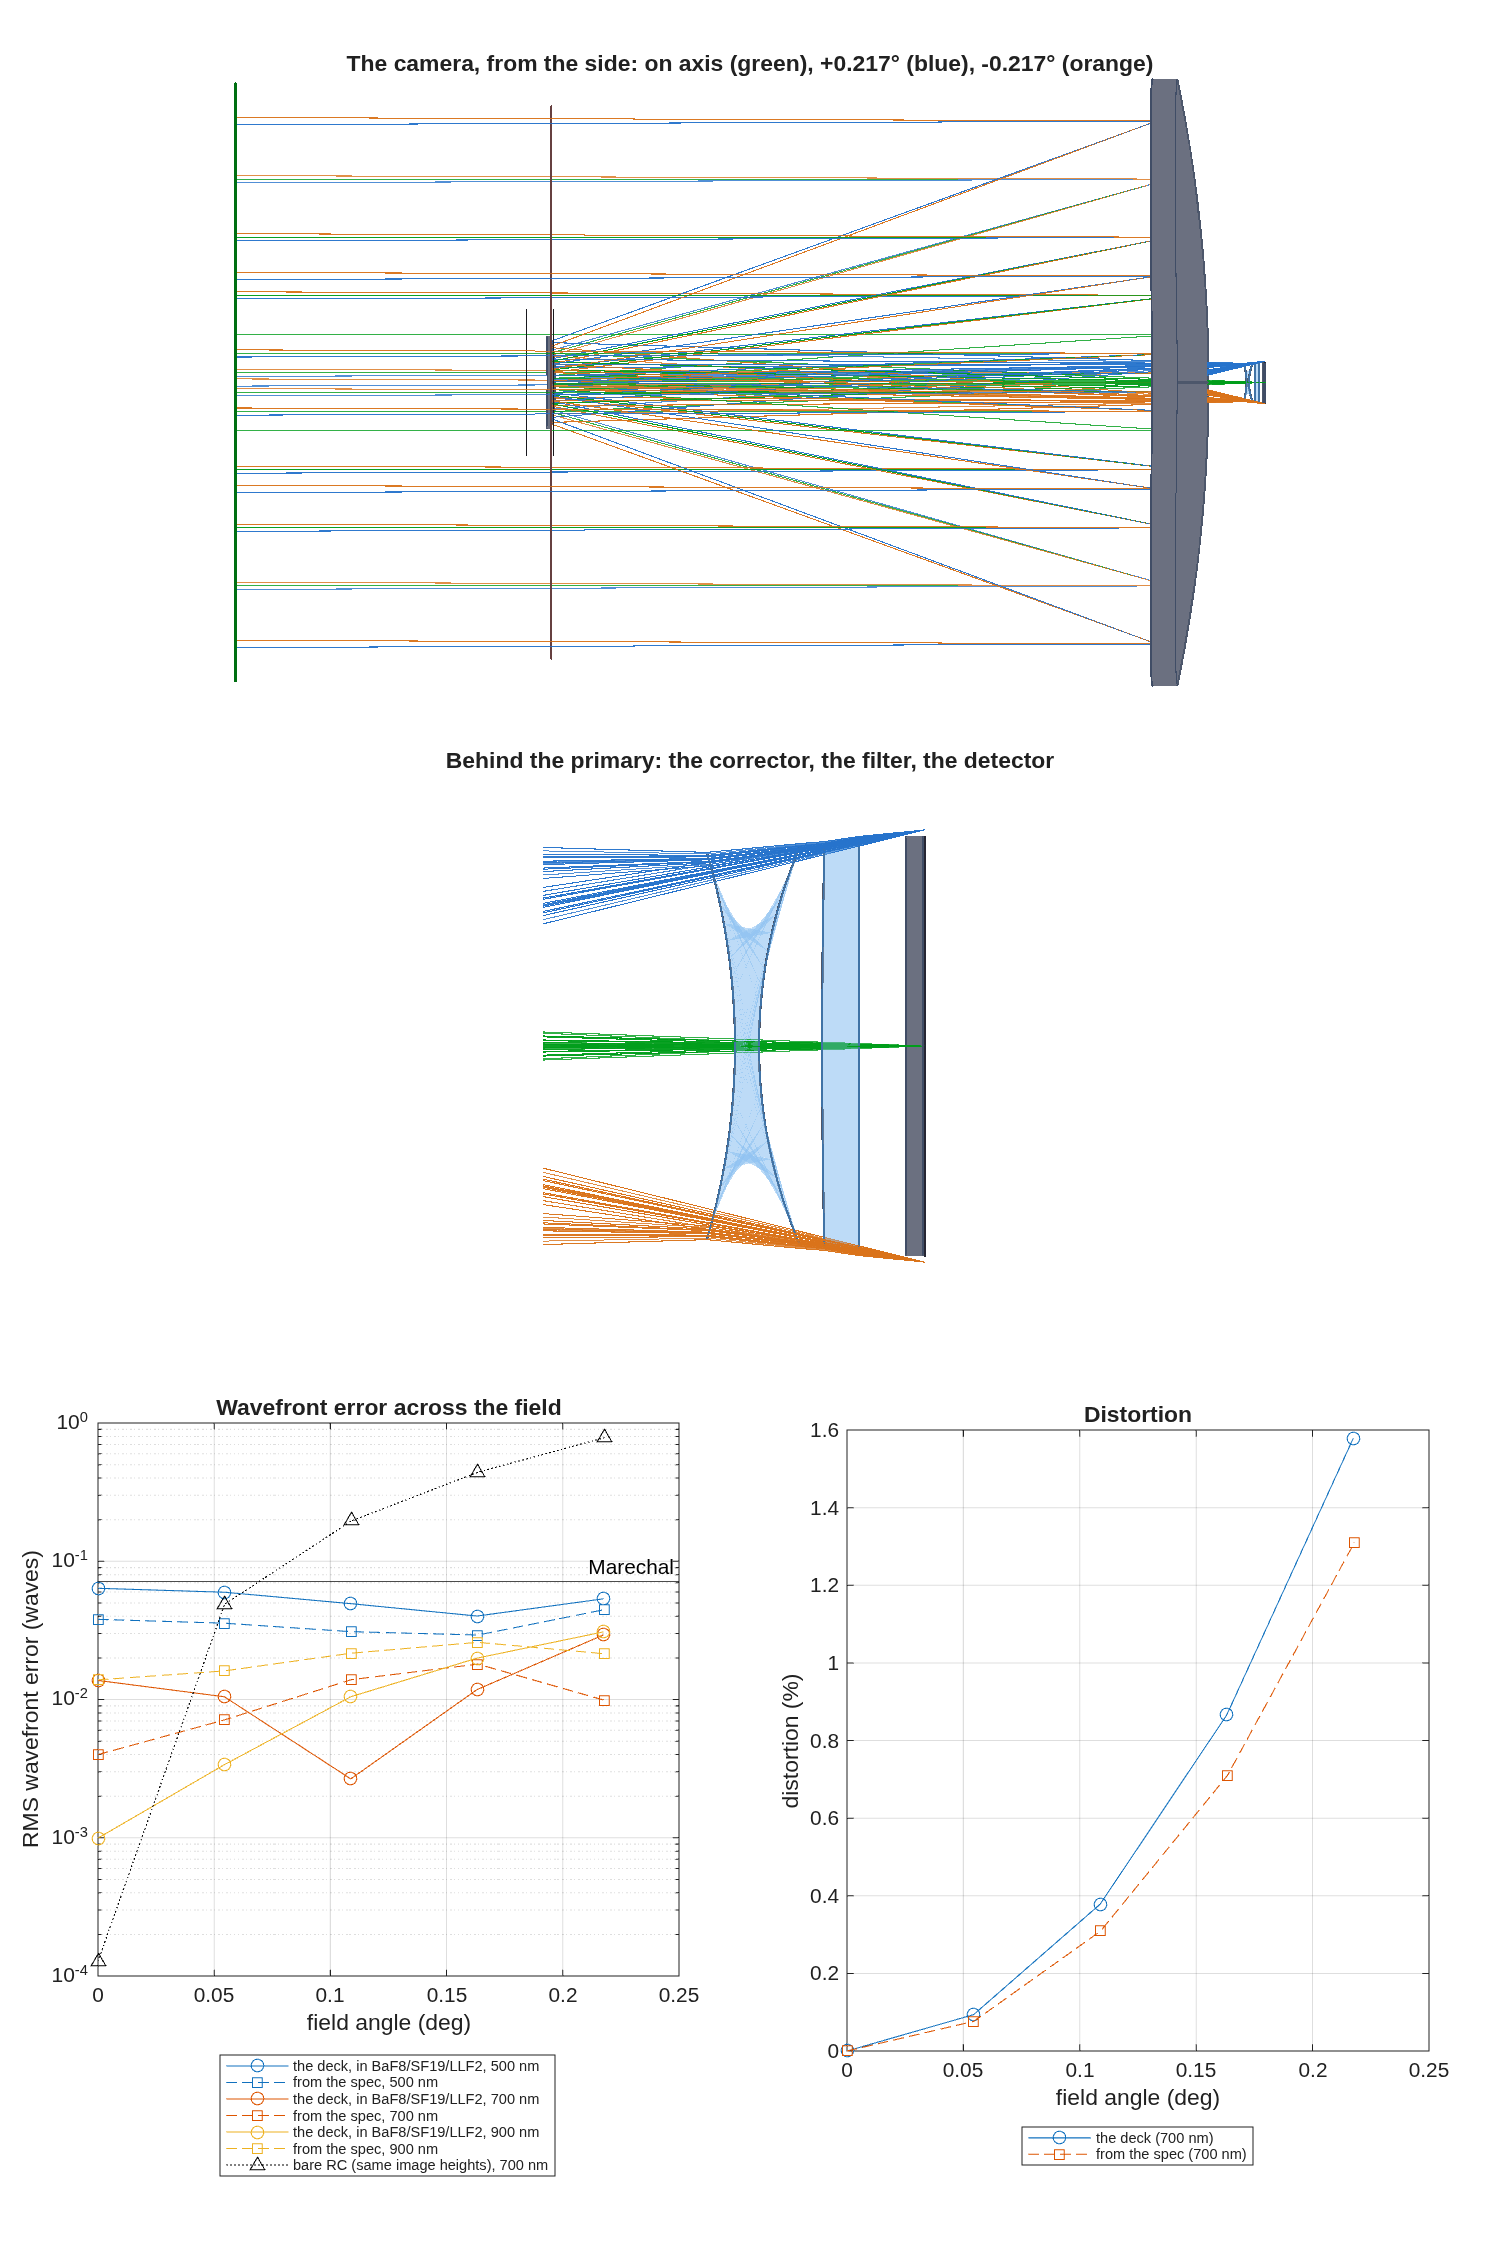
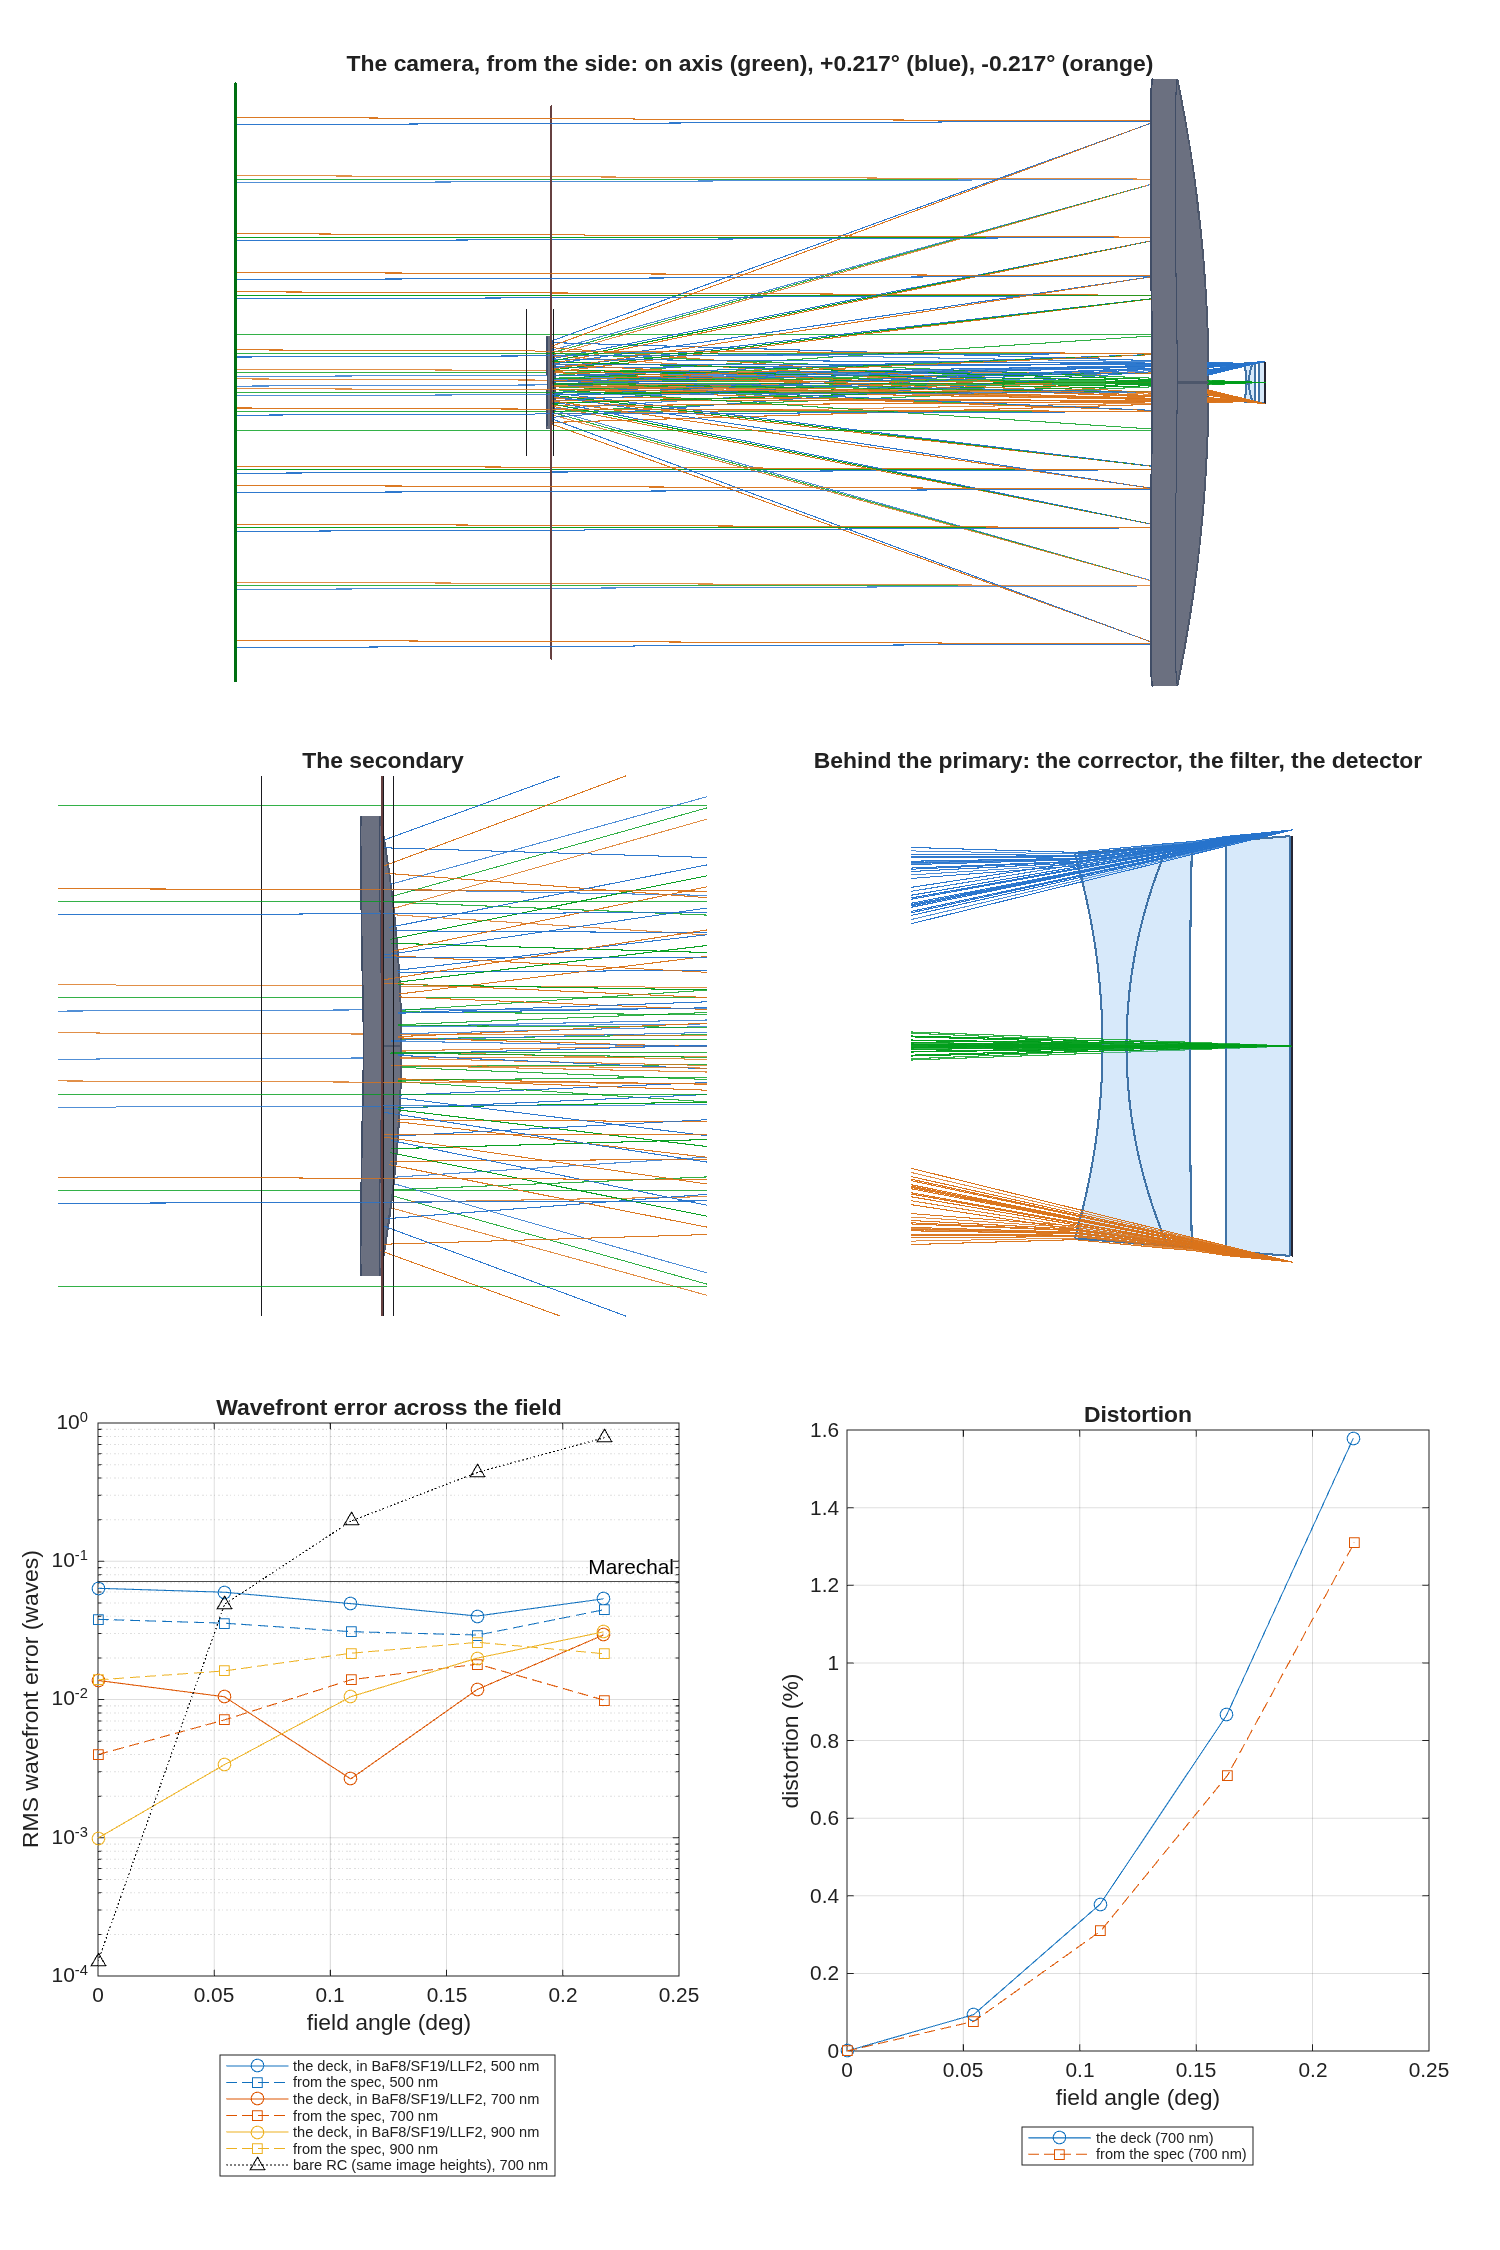
Show the small camera's secondary and its corrector glass correctly on its manual page
Dave (2026-11-02): add the zoomed view of the secondary, and fix the
corrector that drew hollow.  The template's figure carries both
(MACOS_resources bd04fd1: view_rx now fills glass only where the
measured medium is glass, and draws lenses in section in this figure):

- src/media/p2_small_camera_fig.png: regenerated by
  regen_mmacos_transcripts.py (no re-pin: rms700 0.0295, merit 0.0447,
  q700 0.538 held; transcripts unchanged).
- tools/part2/specs/small_camera.json: the caption names the secondary
  panel and the cemented doublet, air gap, filter and detector; page
  238 regenerated by gen_part2.py.

No PDF or edit-copy rebuild (CCL refreshes those).

diff --git a/docs/mmacos-manual/src/238_small_camera.md b/docs/mmacos-manual/src/238_small_camera.md
@@ -39,7 +39,7 @@ out = small_camera();
 
 ![](media/p2_small_camera_fig.png)
 
-**FIGURE 64** The small dedicated imager. Top: the deck small_camera.in drawn from the side by macos.view_rx, with the on-axis bundle (green) and the two field-edge bundles at +/-0.217 deg (blue, orange): the source plane, the secondary and its spider plane, the primary, and the corrector behind it. Middle: behind the primary, the corrector, the filter and the detector, where the edge bundles land 13.5 mm off axis. Bottom: RMS wavefront error (log scale) and distortion against field for the deck in its matched catalog glasses at 500, 700 and 900 nm, the camera re-designed from its spec, and the bare Ritchey-Chretien without its corrector (`small_camera_field.png`).
+**FIGURE 64** The small dedicated imager. Top: the deck small_camera.in drawn from the side by macos.view_rx, with the on-axis bundle (green) and the two field-edge bundles at +/-0.217 deg (blue, orange): the source plane, the secondary and its spider plane, the primary, and the corrector behind it. Middle left: the secondary, the convex mirror the beam folds on. Middle right: behind the primary, the cemented corrector doublet, the air gap, the filter plate and the detector, the glass drawn in cross-section; the edge bundles land 13.5 mm off axis. Bottom: RMS wavefront error (log scale) and distortion against field for the deck in its matched catalog glasses at 500, 700 and 900 nm, the camera re-designed from its spec, and the bare Ritchey-Chretien without its corrector (`small_camera_field.png`).
 
 **The number it reproduces.** As shipped, the deck's worst RMS at 700 nm is %pin:p2_small_camera_rms700% waves, at the edge of its 0.44 deg field.  Re-designed from its spec (D 350 mm, f 3500 mm, 500-900 nm), the camera's worst RMS over the band and the field is %pin:p2_small_camera_merit% waves, and at 700 nm the pixel samples the image at Q = lambda N / p = %pin:p2_small_camera_q700%, under Nyquist by design.
 
